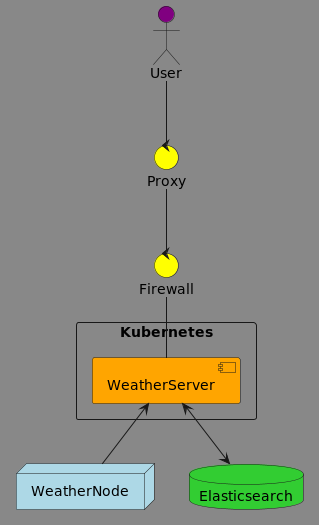
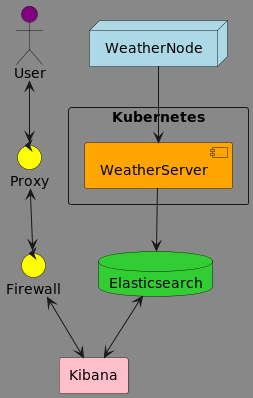
updated diagrams and README

diff --git a/main.py b/main.py
@@ -12,10 +12,11 @@ white = (255, 255, 255)
 
 master_host = os.getenv('MASTER_HOST')
 master_port = os.getenv('MASTER_PORT')
+location = os.getenv('WEATHER_LOCATION')
 
 def main():
    
-   weather_svc = WeatherService(sense, "office")
+   weather_svc = WeatherService(sense, location)
    master_svc = MasterService(master_host, master_port)
    print('starting weather node')
 

diff --git a/README.md b/README.md
@@ -3,11 +3,28 @@
 This repository supports the Raspberry Pi SenseHat Indoor Weather application
 
 ## Overview
-tbd
+This is the Weather Node portion of the Indoor Weather application. This uses a Raspberry Pi and a SenseHAT to read weather data and then send it to the Weather Server for further processing/persistence.
 
 # Setup
+## Configuration
+You must have three environment variables set:
+- **_MASTER_HOST_** - Weather Server host 
+- **_MASTER_PORT_** - Weather Server port
+- **_WEATHER_LOCATION_** - Weather Node location (i.e. office, kitchen, etc...)
+
 ## Installation
-tbd
+Install SenseHat
+```
+sudo apt install sense-hat
+```
+Clone repository to device
+```
+git clone https://github.com/james-cathcart/indoor-weather-node.git
+```
+Run application
+```
+python3 main.py
+```
 
 ## Run as Service
 tbd
